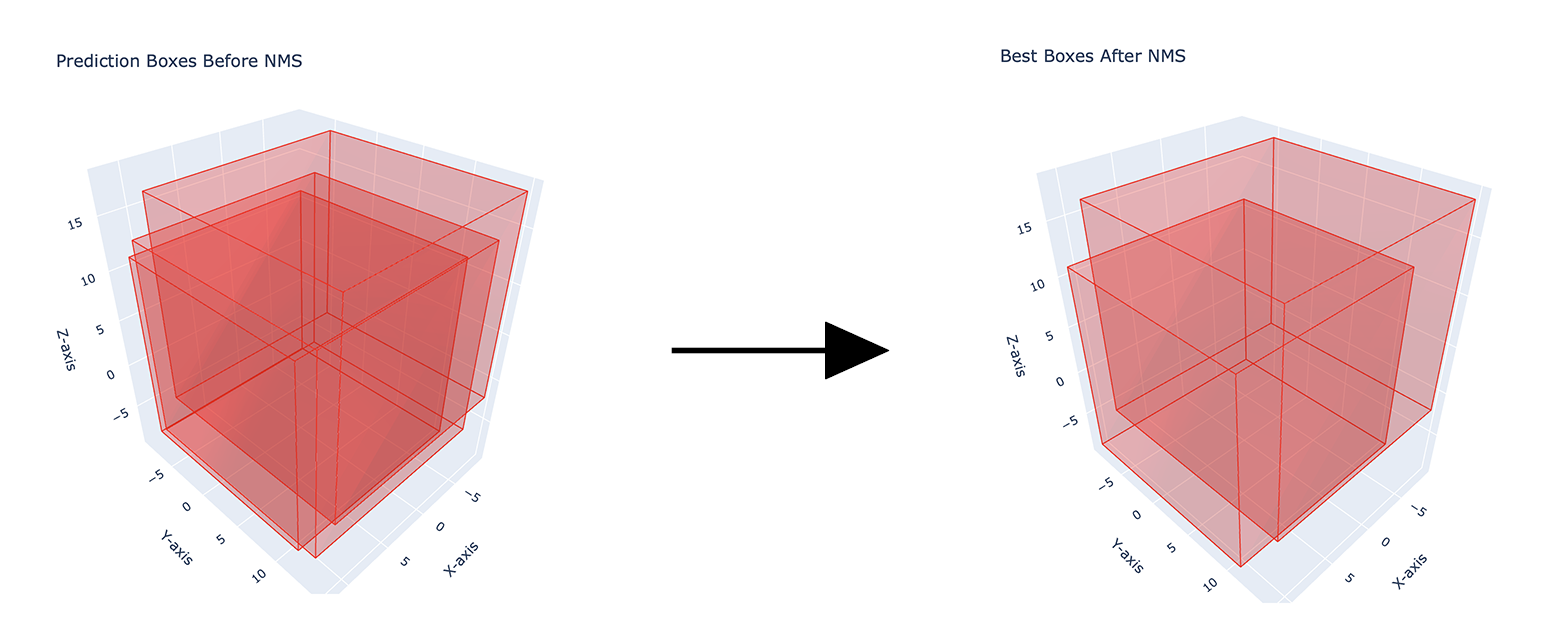
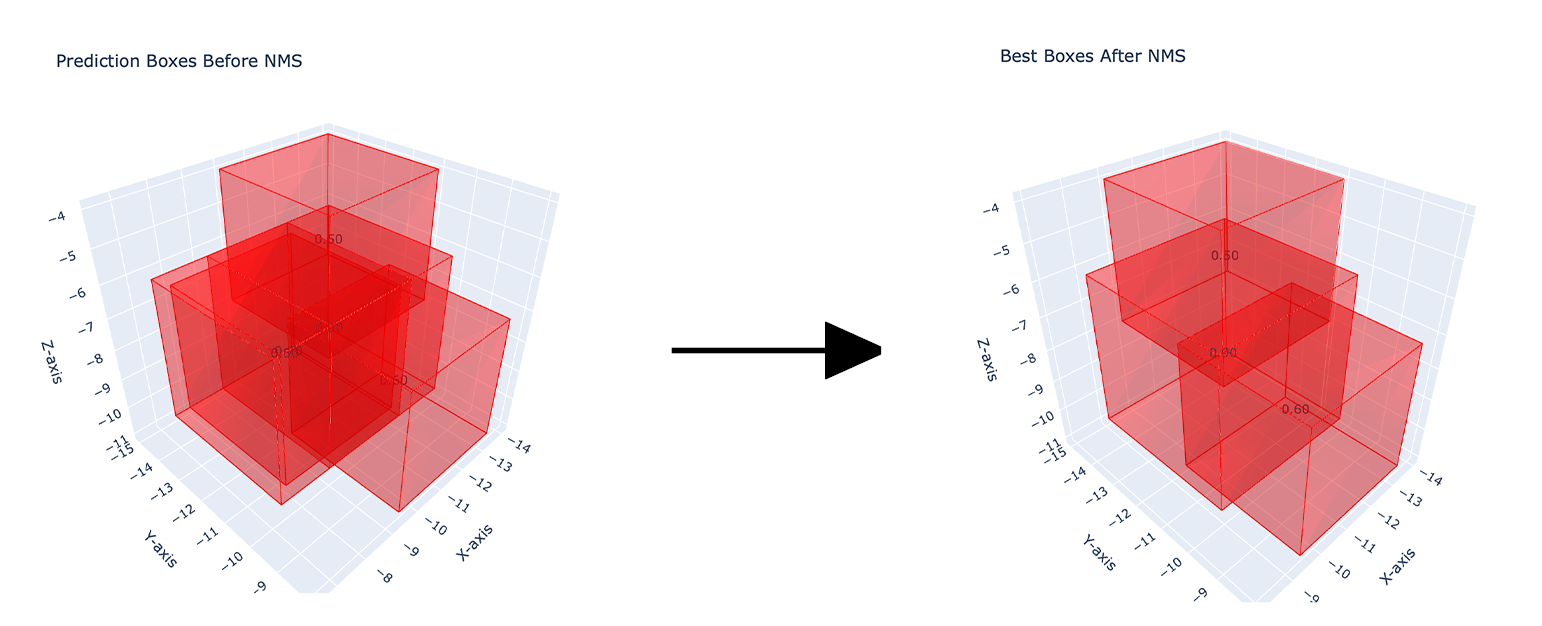
Update README and image example

Changed region(s): [[0.0311, 0.1821, 0.3735, 0.9409], [0.6226, 0.1821, 0.965, 0.9712]]

diff --git a/README.md b/README.md
@@ -1,6 +1,6 @@
 # 3D Non-Maximum Suppression
 
-This is an example implementation of 3D non-maximum suppression (NMS-3D) for bounding boxes using PyTorch and Plotly.
+Implementation of 3D non-maximum suppression (NMS-3D) for bounding boxes using PyTorch and Plotly.
 
 ![Example](./output/NMS-image-example.png)
 
